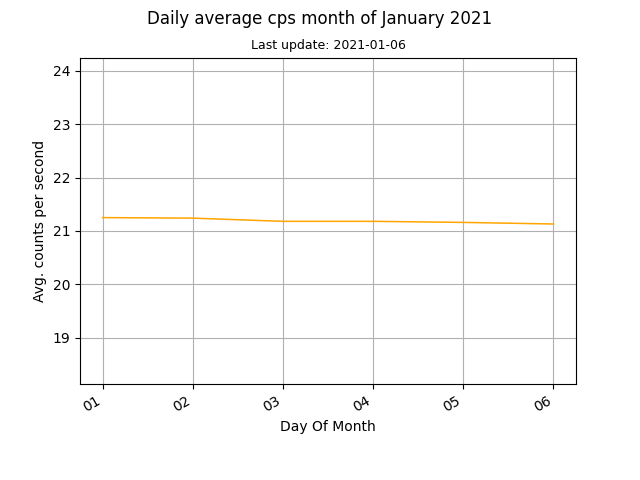
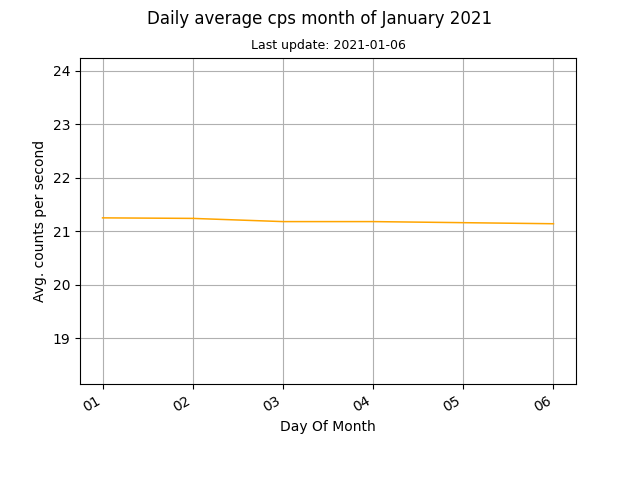
auto data update

Changed region(s): [[0.1562, 0.4375, 0.75, 0.4688], [0.0938, 0.6875, 0.125, 0.7188], [0.0625, 0.4688, 0.0938, 0.5]]

diff --git a/docs/index.html b/docs/index.html
@@ -45,8 +45,8 @@
 	
 	<br>
 	
-	<p>Current counts per second (cps): 20.98</p>
-	<p>Last update: 2021-01-06, 04:46</p>
+	<p>Current counts per second (cps): 21.15</p>
+	<p>Last update: 2021-01-06, 05:01</p>
 
 	<p><a href="images/monthly.png"><img src="images/monthly.png" alt="Mothly avg cps data"></a><a href="images/daily.png"><img src="images/daily.png" alt="Daily avg cps data"></a></p>
 	
